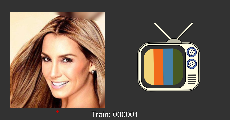
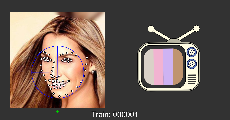
antenna colour change

diff --git a/face.js b/face.js
@@ -7,7 +7,7 @@
 var DEBUG_MODE = true;
 
 // this can be used to set the number of sliders to show
-var NUM_SLIDERS = 8;
+var NUM_SLIDERS = 9;
 
 // other variables can be in here too
 // here's some examples for colors used
@@ -33,18 +33,19 @@ function Face() {
   // these are state variables for a face
   // (your variables should be different!)
   
-  this.cornerOptions = [0.3, 1]; // Change the corners radius between 0.3 and 1
+  this.faceDirection = 0;    // Facing direction range 0 to 100, under 50 facing left, above 50 facing right
+  this.cornerOptions = [0.3, 1];    // Change the corners radius between 0.3 and 1
   this.cornerChange = 1;
-  this.antennaRot_left = 45;    // Left antenna rotation, range is 0 to 90
-  this.antennaRot_right = -45;    // Right antenna rotation, rang is 0 to 90
+  this.antenna_rotation = 45;    // Antenna rotation, rang is 0 to 90
   this.antenna_length = 0.2;    // Antenna length, range is 1 to 3
   this.knobRotations = [0, 30, 45, 60, 90, 120, 135, 150, 180];    // Knobs rotation range
   this.knobRot_up = 0;   // Rotation of upper knob, range is 0 to 8 int
   this.knobRot_down = 0;   // Rotation of lower knob, range is 0 to 8 int
   this.speaker_size = 27;  // Speaker lines' number (size), range is 10 to 60
 
-  this.detailColour = [93, 120, 185];
+  this.knobColour = [93, 120, 185];
   this.mainColour = [255, 253, 227];
+
   // this.chinColour = [153, 153, 51];
   // this.lipColour = [136, 68, 68];
   // this.eyebrowColour = [59, 95, 120];
@@ -53,8 +54,9 @@ function Face() {
   this.screenNeutral = ['#F2D479', '#F26A1B', '#4480A6', '#485922'];
   this.screenDark = ['#D99B29', '#A60815', '#2E7B8C', '#012623'];
   this.colorOption = [this.screenLight, this.screenNeutral, this.screenDark];
-  this.colorSwitch = 2;
-
+  this.screenColour = 1;  // Three options of screen colours, range is 0 to 2
+  this.antennaColour = 0;  // Two options of antenna colours, range is 0 to 1
+  this.antennaColourCur;  // Current antenna colour
   
 
   /*
@@ -100,7 +102,7 @@ function Face() {
 
     ///////////////////////////////////////////////////////////////
     // To get the facing direction
-    if(this.headSize_L < this.headSize_R){
+    if(this.faceDirection <= 50){ // Facing left, screen on the left side
       this.headOffset = -this.headWidth;
       this.antennaPos_X =  this.headPosX - this.headOffset*0.1;
       this.knobPos_X = this.headPosX - this.headOffset*0.44;
@@ -111,7 +113,7 @@ function Face() {
       this.rightMidColorBar = 2;
       this.rightColorBar = 3;
     }
-    else if(this.headSize_L > this.headSize_R){
+    else if(this.faceDirection > 50){ // Facing right, screen on the right side
       this.headOffset = this.headWidth;
       this.antennaPos_X =  this.headPosX - this.headOffset*0.1;
       this.knobPos_X = this.headPosX - this.headOffset*0.44;
@@ -122,6 +124,47 @@ function Face() {
       this.rightMidColorBar = 1;
       this.rightColorBar = 0;
     }
+    ///////////////////////////////////////////////////////////////
+
+    // Draw antenna (eyebrows)
+    if (this.antennaColour <= 50){
+        this.antennaColourCur = this.mainColour;
+    } else{
+        this.antennaColourCur = ['#A69B86'];
+    }
+    push();
+      push();
+      translate(this.antennaPos_X, this.antennaPos_Y-0.1);
+      rotate(this.antenna_rotation);
+      stroke(stroke_color);
+      strokeWeight(0.25);
+      line(0, 0, -this.antenna_size - this.antenna_length, 0);
+      stroke(this.antennaColourCur);
+      strokeWeight(0.2);
+      line(0, 0, -this.antenna_size - this.antenna_length, 0);
+      stroke(stroke_color);
+      fill(this.antennaColourCur);
+      strokeWeight(0.03);
+      ellipse(-this.antenna_size - this.antenna_length, 0, 0.5);
+      pop();
+      push();
+      translate(this.antennaPos_X, this.antennaPos_Y-0.1);
+      rotate(-this.antenna_rotation);
+      stroke(stroke_color);
+      strokeWeight(0.25);
+      line(0, 0, this.antenna_size + this.antenna_length, 0);
+      stroke(this.antennaColourCur);
+      strokeWeight(0.2);
+      line(0, 0, this.antenna_size + this.antenna_length, 0);
+      stroke(stroke_color);
+      fill(this.antennaColourCur);
+      strokeWeight(0.03);
+      ellipse(this.antenna_size + this.antenna_length, 0, 0.5);
+      pop();
+    
+    fill(184, 182, 163);
+    arc(this.antennaPos_X, this.antennaPos_Y, this.antenna_size * 0.8, this.antenna_size * 0.5, 180, 360, CHORD);
+    pop();
     ///////////////////////////////////////////////////////////////
 
     // Draw TV/Monitor main shape and screen
@@ -157,20 +200,20 @@ function Face() {
     push();
     
     noStroke();
-    fill(this.colorOption[this.colorSwitch][this.leftColorBar]);
+    fill(this.colorOption[this.screenColour][this.leftColorBar]);
     rect(this.headPosX + this.headOffset*0.105 - 0.75, this.headPosY, this.headWidth*0.75*0.5, this.headHeight*1.25*0.89, this.roundCorner * this.cornerOptions[this.cornerChange]);
-    fill(this.colorOption[this.colorSwitch][this.rightColorBar]);
+    fill(this.colorOption[this.screenColour][this.rightColorBar]);
     rect(this.headPosX + this.headOffset*0.105 + 0.75, this.headPosY, this.headWidth*0.75*0.5, this.headHeight*1.25*0.89, this.roundCorner * this.cornerOptions[this.cornerChange]);
-    fill(this.colorOption[this.colorSwitch][this.leftMidColorBar]);
+    fill(this.colorOption[this.screenColour][this.leftMidColorBar]);
     rect(this.headPosX + this.headOffset*0.105 - 0.375, this.headPosY, this.headWidth*0.75*0.25, this.headHeight*1.25*0.89);
-    fill(this.colorOption[this.colorSwitch][this.rightMidColorBar]);
+    fill(this.colorOption[this.screenColour][this.rightMidColorBar]);
     rect(this.headPosX + this.headOffset*0.105 + 0.375, this.headPosY, this.headWidth*0.75*0.25, this.headHeight*1.25*0.89);
     pop();
 
     // push();
     // translate(this.headOffset*0.1, 0);
     // strokeWeight(0.1);
-    // stroke(this.colorOption[this.colorSwitch]);
+    // stroke(this.colorOption[this.screenColour]);
     // for(i=0;i<=90;i+=6){
     //   // for(j=0;j<=this.bottomLeftCorner_Y-this.topLeftCorner_Y;j+=0.5){
     //   //   stroke(15, 107, 255, 70);
@@ -199,33 +242,7 @@ function Face() {
     pop();
     ///////////////////////////////////////////////////////////////
 
-    // Draw antenna (eyebrows)
-    push();
-      push();
-      translate(this.antennaPos_X, this.antennaPos_Y-0.1);
-      rotate(this.antennaRot_left);
-      stroke(stroke_color);
-      strokeWeight(0.13);
-      line(0, 0, -this.antenna_size - this.antenna_length, 0);
-      stroke(this.mainColour);
-      strokeWeight(0.1);
-      line(0, 0, -this.antenna_size - this.antenna_length, 0);
-      pop();
-      push();
-      translate(this.antennaPos_X, this.antennaPos_Y-0.1);
-      rotate(this.antennaRot_right);
-      stroke(stroke_color);
-      strokeWeight(0.13);
-      line(0, 0, this.antenna_size + this.antenna_length, 0);
-      stroke(this.mainColour);
-      strokeWeight(0.1);
-      line(0, 0, this.antenna_size + this.antenna_length, 0);
-      pop();
     
-    fill(184, 182, 163);
-    arc(this.antennaPos_X, this.antennaPos_Y, this.antenna_size * 0.8, this.antenna_size * 0.5, 180, 360, CHORD);
-    pop();
-    ///////////////////////////////////////////////////////////////
 
     // Draw Knobs (eyes)
     push();
@@ -236,7 +253,7 @@ function Face() {
     stroke(0, 7, 56);
     // let curEyeShift = 0.04 * this.knobRot_up;
     // if(this.num_eyes == 2) {
-      fill(this.detailColour);
+      fill(this.knobColour);
       ellipse(this.knobPos_X, this.knobPos_Y_up, this.headHeight*0.3);
       ellipse(this.knobPos_X, this.knobPos_Y_down, this.headHeight*0.3);
       fill(this.mainColour);
@@ -258,7 +275,7 @@ function Face() {
     //   let eyePosX = (left_eye_pos[0] + right_eye_pos[0]) / 2;
     //   let eyePosY = (left_eye_pos[1] + right_eye_pos[1]) / 2;
 
-    //   fill(this.detailColour);
+    //   fill(this.knobColour);
     //   ellipse(eyePosX, eyePosY, 0.45, 0.27);
 
     //   fill(this.mainColour);
@@ -280,7 +297,7 @@ function Face() {
     // line(this.knobPos_X - 0.3, this.knobPos_Y_down + 1.2, this.knobPos_X + 0.3, this.knobPos_Y_down + 1.2);
     // ellipse(this.speakerPos_X, this.speakerPos_Y, this.roundCorner * 2);
     // stroke('red');
-    if(this.headSize_L < this.headSize_R){
+    if(this.faceDirection <= 50){
        this.speakerPos_X = this.headPosX + (this.headWidth *1.14) / 2 - this.roundCorner * 1;
 
        line(this.speakerPos_X, this.speakerPos_Y - sin(16.1)*this.roundCorner * 0.7, 
@@ -293,7 +310,7 @@ function Face() {
           this.speakerPos_X + cos(0)*this.roundCorner * 0.7, this.speakerPos_Y - sin(i)*this.roundCorner * 0.7);
       }
     }
-    else if(this.headSize_L > this.headSize_R){      
+    else if(this.faceDirection > 50){      
       this.speakerPos_X = this.headPosX - (this.headWidth *1.14) / 2 + this.roundCorner * 1;
 
       line(this.speakerPos_X, this.speakerPos_Y - sin(16.1)*this.roundCorner * 0.7,
@@ -375,27 +392,29 @@ function Face() {
 
   /* set internal properties based on list numbers 0-100 */
   this.setProperties = function(settings) {
-    this.colorSwitch = int(map(settings[0], 0, 100, 0, 2.9));
+    this.screenColour = int(map(settings[0], 0, 100, 0, 2));
     this.cornerChange = int(map(settings[1], 0, 100, 0, 1));
-    this.antennaRot_left = map(settings[2], 0, 100, 0, 90);
-    this.antennaRot_right = map(settings[3], 0, 100, 0, -90);
+    this.antennaColour = map(settings[2], 0, 100, 0, 100);
+    this.antenna_rotation = map(settings[3], 0, 100, 0, 90);
     this.antenna_length = map(settings[4], 0, 100, -0.5, 0.5);
     this.knobRot_up = int(map(settings[5], 0, 100, 0, 8.9));
     this.knobRot_down = int(map(settings[6], 0, 100, 0, 8.9));
     this.speaker_size = map(settings[7], 0, 100, 10, 60);
+    this.faceDirection = map(settings[8], 0, 100, 0, 100);
   }
 
   /* get internal properties as list of numbers 0-100 */
   this.getProperties = function() {
     let settings = new Array(3);
-    settings[0] = map(this.colorOption, 0, 2.9, 0, 100);
+    settings[0] = map(this.screenColour, 0, 2, 0, 100);
     settings[1] = map(this.cornerChange, 0, 1, 0, 100);
-    settings[2] = map(this.antennaRot_left, 0, 90, 0, 100);
-    settings[3] = map(this.antennaRot_right, 0, -90, 0, 100);
+    settings[2] = map(this.antennaColour, 0, 100, 0, 100);
+    settings[3] = map(this.antenna_rotation, 0, 90, 0, 100);
     settings[4] = map(this.antenna_length, -0.5, 0.5, 0, 100);
     settings[5] = map(this.knobRot_up, 0, 8.9, 0, 100);
     settings[6] = map(this.knobRot_down, 0, 8.9, 0, 100);
     settings[7] = map(this.speaker_size, 10, 60, 0, 100);
+    settings[8] = map(this.speaker_size, 0, 100, 0, 100);
 
     return settings;
   }

diff --git a/index.html b/index.html
@@ -48,7 +48,7 @@
         <div class="inner" id="controls" height="500">
             <table>
                 <tr>
-                    <td>Screen color</td>
+                    <td>Screen colour</td>
                     <td id="slider1Container"></td>
                 </tr>
                 <tr>
@@ -56,11 +56,11 @@
                     <td id="slider2Container"></td>
                 </tr>
                 <tr>
-                    <td>Antenna_left angle</td>
+                    <td>Antenna colour</td>
                     <td id="slider3Container"></td>
                 </tr>
                 <tr>
-                    <td>Antenna_right angle</td>
+                    <td>Antenna angle</td>
                     <td id="slider4Container"></td>
                 </tr>
                 <tr>
@@ -79,12 +79,12 @@
                     <td>Speaker size</td>
                     <td id="slider8Container"></td>
                 </tr>
-                
-                <!-- YOU CAN ADD MORE SLIDERS HERE, LIKE THIS
                 <tr>
-                    <td>setting 9</td>
+                    <td>Face direction</td>
                     <td id="slider9Container"></td>
                 </tr>
+                <!-- YOU CAN ADD MORE SLIDERS HERE, LIKE THIS
+                
                 <tr>
                     <td>setting 10</td>
                     <td id="slider10Container"></td>

diff --git a/README.md b/README.md
@@ -2,7 +2,7 @@
 [![Open in Visual Studio Code](https://classroom.github.com/assets/open-in-vscode-718a45dd9cf7e7f842a935f5ebbe5719a5e09af4491e668f4dbf3b35d5cca122.svg)](https://classroom.github.com/online_ide?assignment_repo_id=11103452&assignment_repo_type=AssignmentRepo)
 ## 2023 MDDN342 Assignment 3: Data Mappings
 
-Added antennas on top. The length can be changed and can be rotated. The antennas will be related with hair length.
-Knobs rotation now has several options instead of free spin, which will be related with nose angles.
-Screen corner's radius can be switch between sharp and round to represent gender.
-I'll make the antennas not rotate or scale freely.
+Both antennas will rotate at the same time, and the colour can be light or dark, which stand for the hair colour.
+Facing direction can be changed with slider.
+The two knobs' rotation will follow the rough shape of nose.
+Ready to train.
